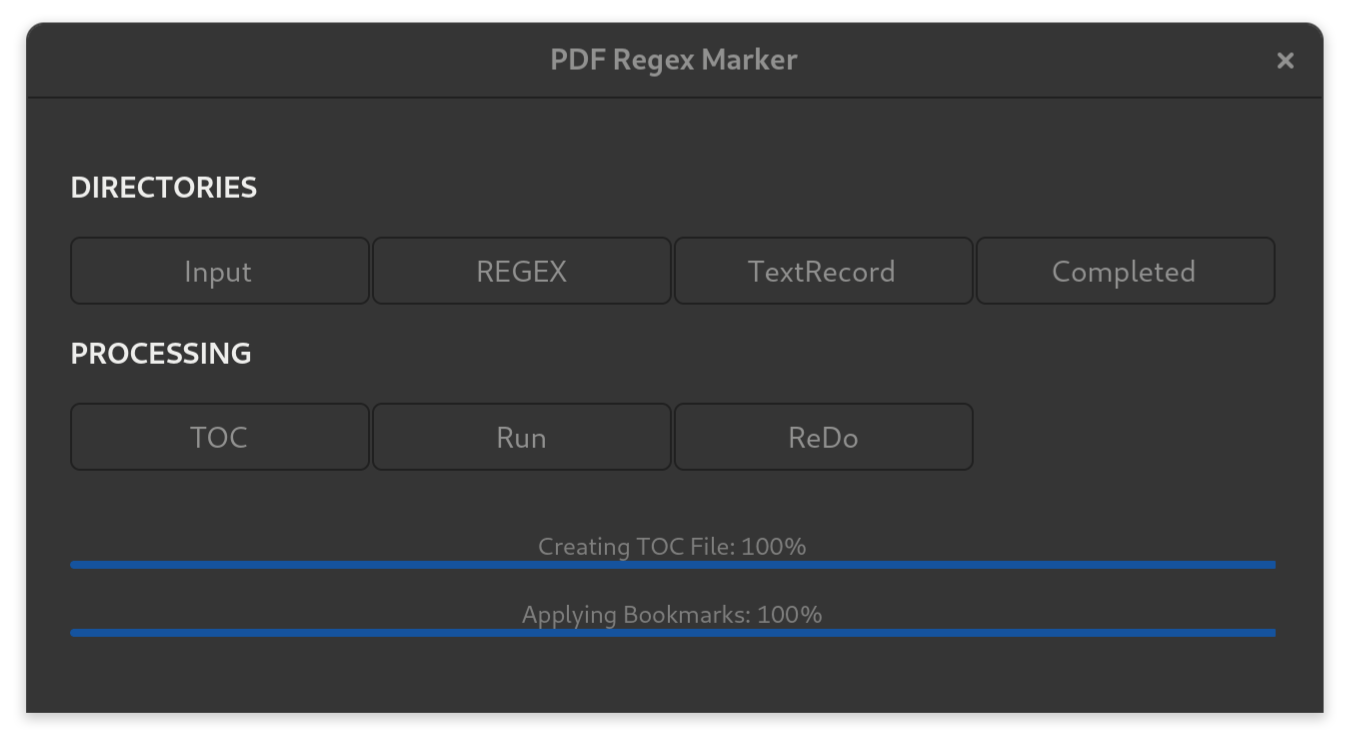
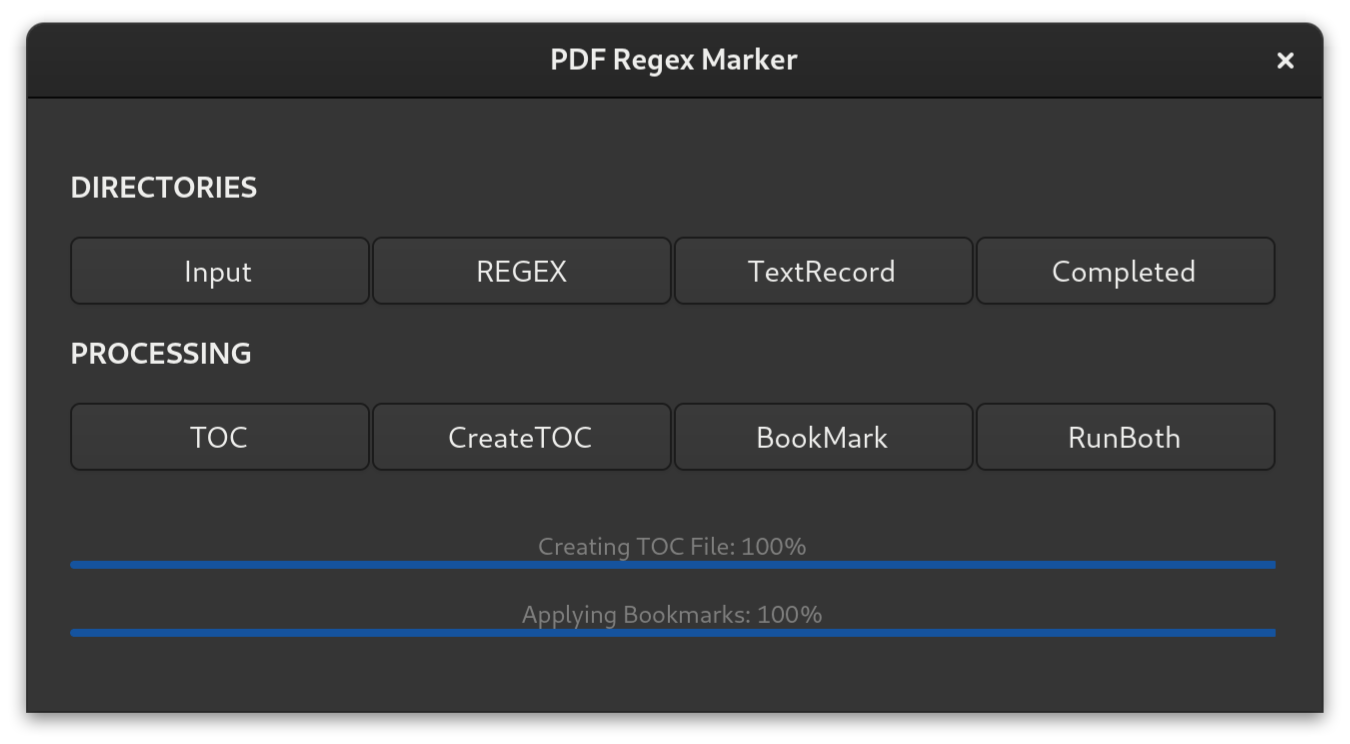
added separate TOC creation option

diff --git a/pdf_marker.py b/pdf_marker.py
@@ -98,17 +98,23 @@ class PDFMarker(Gtk.ApplicationWindow):
         self.toc_file_button.connect("clicked", self.toc_file)
         grid.attach(self.toc_file_button, 0, 3, 1, 1)
         
-        # Run
-        self.run_button = Gtk.Button(label="Run")
-        self.run_button.set_size_request(150, -1)  # width and height
-        self.run_button.connect("clicked", self.run)
-        grid.attach(self.run_button, 1, 3, 1, 1)
+        # CreateTOC
+        self.CreateTOC_button = Gtk.Button(label="CreateTOC")
+        self.CreateTOC_button.set_size_request(150, -1)  # width and height
+        self.CreateTOC_button.connect("clicked", self.CreateTOC)
+        grid.attach(self.CreateTOC_button, 1, 3, 1, 1)
         
-        # Redo Run
-        self.redo_button = Gtk.Button(label="ReDo")
-        self.redo_button.set_size_request(150, -1)  # width and height
-        self.redo_button.connect("clicked", self.redo)
-        grid.attach(self.redo_button, 2, 3, 1, 1)
+        # BookMark
+        self.BookMark_button = Gtk.Button(label="BookMark")
+        self.BookMark_button.set_size_request(150, -1)  # width and height
+        self.BookMark_button.connect("clicked", self.BookMark)
+        grid.attach(self.BookMark_button, 2, 3, 1, 1)
+        
+        # RunBoth
+        self.RunBoth_button = Gtk.Button(label="RunBoth")
+        self.RunBoth_button.set_size_request(150, -1)  # width and height
+        self.RunBoth_button.connect("clicked", self.RunBoth)
+        grid.attach(self.RunBoth_button, 3, 3, 1, 1)
         
         # Create an event controller for key presses
         key_controller = Gtk.EventControllerKey.new()
@@ -150,26 +156,36 @@ class PDFMarker(Gtk.ApplicationWindow):
         GLib.idle_add(self.page_progress_bar.set_text, f"Applying Bookmarks: {int(progress * 100)}%")
 
 	# Running Tasks (need separate threads to make progress bar work)
-    def run(self, widget):
+	# Two functions for just creating TOC
+    def CreateTOC(self, widget):
         # Create a new thread for the create_toc function
         thread = threading.Thread(target=self.run_create_toc, args=())
         thread.daemon = True  # Daemonize thread
         thread.start()
-
     def run_create_toc(self):
+        toc_creator.create_toc(text_record_folder, input_folder, combined_pdf_path, toc_file, regexes_folder, self.update_progress)
+        GLib.idle_add(click.launch, toc_file)
+	
+	# Two functions for just applying bookmarks
+    def BookMark(self, widget):
+        # Create a new thread for the redo operation
+        thread = threading.Thread(target=self.run_pdfoutline, args=())
+        thread.daemon = True  # Daemonize thread
+        thread.start()
+    def run_pdfoutline(self):
+        pdfoutline(combined_pdf_path, toc_file, completed_record_pdf, gs='gs', update_progress=self.update_page_progress)
+        GLib.idle_add(click.launch, completed_record_pdf)
+	
+	# Two functions for creating bookmarks and applying bookmarks
+    def RunBoth(self, widget):
+        # Create a new thread for the redo operation
+        thread = threading.Thread(target=self.run_both, args=())
+        thread.daemon = True  # Daemonize thread
+        thread.start()
+    def run_both(self):
         toc_creator.create_toc(text_record_folder, input_folder, combined_pdf_path, toc_file, regexes_folder, self.update_progress)
         pdfoutline(combined_pdf_path, toc_file, completed_record_pdf, gs='gs', update_progress=self.update_page_progress)
         GLib.idle_add(click.launch, completed_record_pdf)
-
-    def redo(self, widget):
-        # Create a new thread for the redo operation
-        thread = threading.Thread(target=self.redo_pdfoutline, args=())
-        thread.daemon = True  # Daemonize thread
-        thread.start()
-
-    def redo_pdfoutline(self):
-        pdfoutline(combined_pdf_path, toc_file, redo_completed_record_pdf, gs='gs', update_progress=self.update_page_progress)
-        GLib.idle_add(click.launch, redo_completed_record_pdf)
         
     # Quit with control+Q  
     def on_key_pressed(self, controller, keyval, keycode, state):

diff --git a/README.md b/README.md
@@ -1,5 +1,5 @@
 # PDF Regex Marker
-PDF Regex Marker is an application for automatically bookmarking large pdf documents by using [regular expressions](https://en.wikipedia.org/wiki/Regular_expression) to match desired patterns. It was designed to bookmark legal transcripts, but there may be other uses. The user must supply a pdf file, or files, that already have embedded text (through [OCR](https://en.wikipedia.org/wiki/Optical_character_recognition) or generated from a word processor), as well as separately-named text files that include the desired regular expressions. PDF Regex Marker first creates a separate text file for each page of the pdf document and sequentially numbers those pages. The application then runs each regular expression against each text file, and creates a table of contents file (TOC file) based on the resulting matches. Finally, the application uses the TOC file to apply bookmarks to the original pdf document. The bookmarks are categorized based on the name given to each text file containing regular expressions. After an initial run, the user can manually make corrections or additions to the TOC file, then apply the bookmarks (the "redo" option).
+PDF Regex Marker is an application for automatically bookmarking large pdf documents by using [regular expressions](https://en.wikipedia.org/wiki/Regular_expression) to match desired patterns. It was designed to bookmark legal transcripts, but there may be other uses. The user must supply a pdf file, or files, that already have embedded text (through [OCR](https://en.wikipedia.org/wiki/Optical_character_recognition) or generated from a word processor), as well as separately-named text files that include the desired regular expressions. PDF Regex Marker first creates a separate text file for each page of the pdf document and sequentially numbers those pages. The application then runs each regular expression against each text file, and creates a table of contents file (TOC file) based on the resulting matches. Finally, the application uses the TOC file to apply bookmarks to the original pdf document. The bookmarks are categorized based on the name given to each text file containing regular expressions.
 
 PDF Regex Marker is written in Python, has a GTK4 GUI, and only works on linux. It relies on Ghostscript, which is preinstalled on most linux distributions. It also relies on the following python modules that can be installed via the requirements file:
 
@@ -46,11 +46,11 @@ The regex folder is where you place the text files that contain your regular exp
 
 The text file folder will -- after pressing "run" -- contain a separate text file for each page of the larger pdf document. The point of this folder is to allow the user to develop better regular expressions. For example, if you thought that a given regular expression was going to match a specific phrase but failed to do so, you can go to the specific text file and paste the contents into a web site like [regex101.com](https://regex101.com/) or use an app that does a similar thing. From there, you can test your regular expression to see what the problem was.
 
-## The TOC File and Redo Option
+## Running the App
 
 Thanks to [pdfoutline](https://github.com/yutayamamoto/pdfoutline), the TOC file is easy to read and edit. It's just a list of the categories with each bookmark and page number indented underneath it.
 
-As mentioned above, after an initial run, you can manually edit the TOC file, then press "redo" to apply the edited TOC file to a new pdf named "redo_completed_record.pdf." This is a useful feature because even a very good set of regular expressions can sometimes fail to match phrases or apply unexpected matches.
+I strongly recommend first runnning CreateTOC, then inspecting the resulting TOC file before running BookMark. This way you can make sure that your regular expressions are working correctly and manually edit the TOC file for small changes. Even an excellent set of regular expressions may not work perfectly against thousands of pages of scanned pdf pages, which may vary in terms of quality and clarity.
 
 ![](images/toc.png)
 
